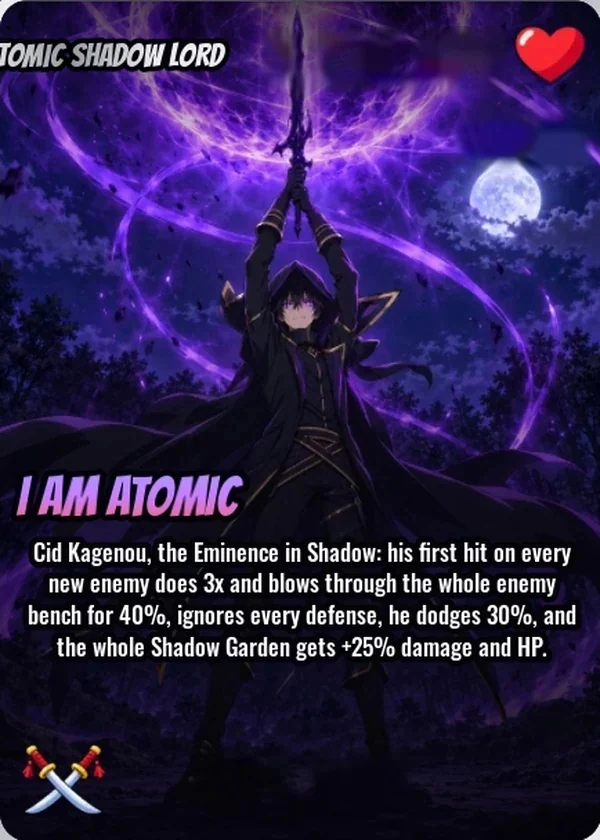
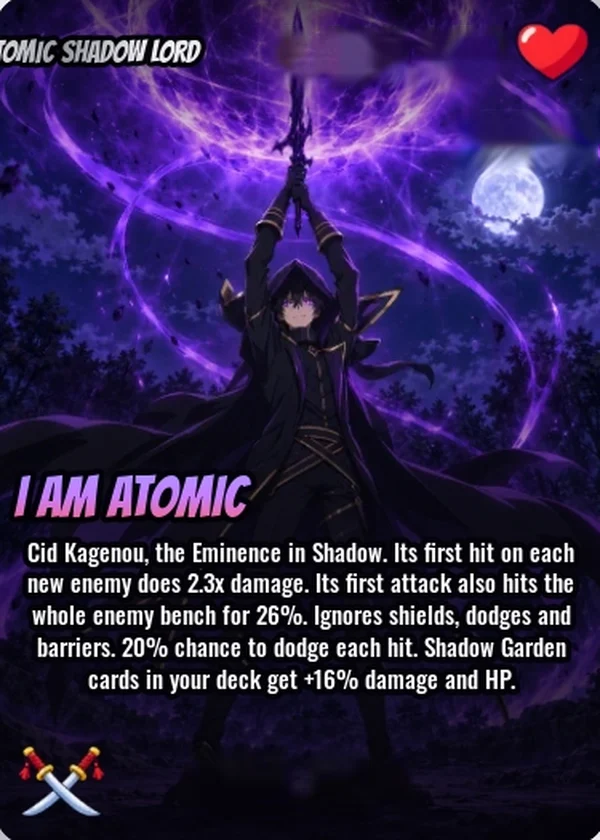
W1: update 4 cards after game update, add obtain field
Claude-Session: https://claude.ai/code/session_01PKgbaASwr48u7ViNCJSrt4

diff --git a/PROGRESS.md b/PROGRESS.md
@@ -40,7 +40,7 @@
 - สีเกรดจริง: แคปรูปมา → Claude Code **Sonnet 5.5 / low** แก้แค่ `--g-*` ใน `css/tokens.css`
 
 **ลำดับงาน (เจ้าของตกลงแล้ว 2026-10-25 · สเปกครบใน §13 · ทำทีละข้อตามลำดับ):** W1 → W2 → W3 → W4 → W5 → W6 → W7 → Roll
-1. **W1** อัปเดตการ์ด 4 ใบ + เพิ่ม White Hawk Godhand + ช่อง `obtain` (แนบรูป) → **Sonnet 5.5 / medium**: `repo Card_Ascension: อ่าน PROGRESS.md (กฎทำงาน + ▶ + §3.5.1 + §5 + §7 A + §13 W1) แล้วทำ W1 กับรูปที่แนบ`
+1. **W1** ✅ การ์ด 4 ใบ + `obtain` เสร็จแล้ว · **เหลือเพิ่ม White Hawk Godhand (Berserk)** — รอเจ้าของแนบรูปการ์ด + หน้า Index (ทำเป็นงาน A ปกติ ไม่ต้องทำ 4 ใบซ้ำ) → **Sonnet 5.5 / medium**: `repo Card_Ascension: อ่าน PROGRESS.md (กฎทำงาน + ▶ + §3.5.1 + §5 + §7 A + §13 W1) แล้วทำ W1 กับรูปที่แนบ`
 2. **W2** วิเคราะห์ใหม่ทุกใบ → **Opus 5.5 / high**: `repo Card_Ascension: อ่าน PROGRESS.md (กฎทำงาน + ▶ + §5 + §7 B + §8 + §10.5 + §13 W2) แล้วทำ W2`
 3. **W3** จอคอมยืดตามจอ → **Sonnet 5.5 / medium**: `repo Card_Ascension: อ่าน PROGRESS.md (กฎทำงาน + ▶ + §3 + §3.3 + §4.1 + §13 W3) แล้วทำ W3`
 4. **W4** ความเร็วหน้า Cards 60 ใบ → **Opus 5.5 / high**: `repo Card_Ascension: อ่าน PROGRESS.md (กฎทำงาน + ▶ + §3.3 + §4.1 + §11.3 + §13 W4) แล้วทำ W4`
@@ -313,6 +313,7 @@ const RARITY_MULTIPLIERS = {
   "image": "images/cards/bald-cadet.webp",
   "base": { "atk": 382, "hp": 2546, "def": 0, "status": 0, "odds": 59 },   // ค่าระดับ Normal · def = Defense, status = Status Damage (ใส่เมื่อรู้ค่า ไม่ใส่/0 = หน้า Grade แสดงแค่ % โบนัส)
   "exact": { "Divine": { "atk": 10121 } },                // ค่าจริงจากเกม (ถ้ามี)
+  "obtain": "Rolls anywhere",                              // วิธีได้มา (อ่านจากหน้า Index ในเกม) · เว็บยังไม่แสดง
   "passive": { "name": "ODM Gear", "desc": "15% dodge" },
   "skill":   { "name": "", "desc": "" },
   "scores":  { "atk": 0, "hp": 0, "passive": 0, "skill": 0, "matchup": 0, "team": 0, "overall": 0 },
@@ -366,7 +367,7 @@ const RARITY_MULTIPLIERS = {
 ทำเสร็จให้อัปเดต PROGRESS.md และ HISTORY.md และบอกว่าต้องอัปไฟล์ไหนไปโฟลเดอร์ไหน ทำเป็นไฟล์ zip
 ```
 1. ตัดรูปด้วย Python: หาขอบการ์ด, ตัดพื้นหลังและหน้าจอเกมออก, ปรับให้เป็น 600×840 แล้วบันทึกเป็น `.webp` ชื่อตาม id ใน `images/cards/` · **และทำรูปเล็ก 300×420 `.webp` ชื่อเดียวกันใน `images/cards/thumb/` ทุกครั้ง** (ขั้น 9.5: การ์ดเล็กโหลดรูปนี้ ไม่มี = โหลดรูปใหญ่แทน ช้าและเปลือง RAM) · บอกเจ้าของให้อัปทั้ง 2 โฟลเดอร์
-2. อ่านทุกอย่างที่เห็นในรูป: ชื่อ, ATK, HP, Passive, Skill, ระดับ, โอกาส · ถ้ารูปเป็นระดับอื่นที่ไม่ใช่ Normal ให้หารด้วยตัวคูณเพื่อหาค่า Normal แล้วเก็บค่าจริงไว้ใน `exact`
+2. อ่านทุกอย่างที่เห็นในรูป: ชื่อ, ATK, HP, Passive, Skill, ระดับ, โอกาส, **`obtain` (วิธีได้มา เช่น "Rolls anywhere" · ต้องจดทุกใบทุกครั้ง · แคปหน้า Index ในเกมมาด้วย)** · ถ้ารูปเป็นระดับอื่นที่ไม่ใช่ Normal ให้หารด้วยตัวคูณเพื่อหาค่า Normal แล้วเก็บค่าจริงไว้ใน `exact`
 3. อ่านไม่ชัดตรงไหนให้ถาม ห้ามเดา
 4. ใส่ข้อมูลลง `cards.json` (ยังไม่ต้องให้คะแนน: ตั้ง `scores.overall` เป็น `0` และ `tier` เป็น `""` เว็บจะแสดงเป็น Unranked ให้เอง) แล้วบอกว่าต้องอัปไฟล์ไหน
 
@@ -464,7 +465,7 @@ const RARITY_MULTIPLIERS = {
 ## 13. งานรอทำ (เจ้าของตกลงแล้ว 2026-10-25)
 ทำตามลำดับ **W1 → W2 → W3 → W4 → W5 → W6 → W7 → Roll (§12)** · 1 งาน = 1 แชท (กฎ 7) · prompt + โมเดลอยู่ใน ▶ · ทุกงานที่แตะหน้าเว็บต้องผ่าน §4.1 + เปลี่ยน `?v=` ทุกบรรทัด (กฎ 9)
 
-### W1 อัปเดตการ์ดหลังเกมอัปเดต (งาน A · §7 A)
+### W1 อัปเดตการ์ดหลังเกมอัปเดต (งาน A · §7 A) — ✅ การ์ด 4 ใบเดิมเสร็จ 2026-10-25 · ⏳ เหลือ White Hawk Godhand (รอรูป)
 - เกมเปลี่ยน **ATK / HP / ข้อความสกิล** (โอกาสเท่าเดิม) → อัปเดตการ์ด 4 ใบเดิม (`dragon-emperor-monarch`, `moon-eye-ghost`, `atomic-shadow-lord`, `beast-emperor`): ข้อมูลใหม่ + **รูปใหม่ที่ลบตัวเลขตาม §3.5** (HP / ป้าย 1 IN X / ATK / ×N / ★ · ทั้ง `images/cards/` และ `thumb/`)
 - เพิ่มการ์ดใหม่ **White Hawk Godhand** (Berserk)
 - เพิ่มช่อง **`obtain`** (วิธีได้มา เช่น `"Rolls anywhere"` อ่านจากหน้า Index ในเกม) **ทุกใบ** · เพิ่มใน §7 A ว่า**ต้องจด `obtain` ทุกครั้ง** (+ §5.2 โครงไฟล์)

diff --git a/HISTORY.md b/HISTORY.md
@@ -817,3 +817,10 @@
   - **ไฟล์:** ใหม่ `data/traits.json`, `js/traits.js`, `css/traits.css` · แก้ `index.html` (ปุ่มเมนู, section, sprite, `?v=17` ทุกบรรทัด), `css/tokens.css`, `css/base.css`, `css/detail.css`, `js/app.js`, `js/teamscore.js`, `js/deck.js`, `js/detail.js`, `js/grade.js`, `data/cards.json`, `PROGRESS.md`, `HISTORY.md`
 - 2026-10-25: **จดสเปกแท็บ Roll** ลง PROGRESS §12 (รอเจ้าของสั่ง · ยังไม่ได้ทำโค้ด) · ▶ ข้อ 5 ชี้ไป §12 · เพิ่มแถวในตาราง 📑 · **ไฟล์:** `PROGRESS.md`, `HISTORY.md`
 - 2026-10-25: **จดงานรอทำ W1–W7** (เจ้าของตกลงแล้ว) ลง PROGRESS **§13 งานรอทำ (เจ้าของตกลงแล้ว 2026-10-25)** · ยังไม่ได้แก้โค้ด · W1 อัปเดตการ์ดหลังเกมอัปเดต + White Hawk Godhand + ช่อง `obtain` · W2 วิเคราะห์ใหม่ · W3 จอคอมยืดตามจอ (เพดาน ~1600px) · W4 ความเร็วหน้า Cards 60 ใบ (~40 → ≥ 55 fps) · W5 หน้า Traits ใหม่แบบ Trait Shop + ไอคอนใหม่ · W6 หน้าดูการ์ด (ป้าย 4 มุม, ปุ่ม, แผง Details 4 แท็บ, เปลี่ยนระดับ, สวิตช์ Low/High) · W7 ฉากหลัง 6 ชั้น (รอรูปจากเจ้าของ) · ▶ เพิ่ม "ลำดับงาน" W1 → … → W7 → Roll พร้อม prompt + โมเดล · Roll (▶ ข้อ 5) เปลี่ยนเป็น "ทำหลัง W7" · **ไฟล์:** `PROGRESS.md`, `HISTORY.md`
+- 2026-10-25: **W1 อัปเดตการ์ด 4 ใบหลังเกมอัปเดต + ช่อง `obtain`** (Claude Code · Sonnet 5.5 · ยังไม่ได้แก้โค้ดเว็บ จึงไม่เปลี่ยน `?v=` = ยัง `17`)
+  - **ข้อมูลใหม่ (อ่านจากหน้า Index ในเกม · ระดับ Normal · โอกาสเท่าเดิม):** DEM ATK 1,333,153 / HP 8,887,688 (เดิม 763,942 / 5,092,944) · MEG 1,079,693 / 7,197,952 (เดิม 438,047 / 2,920,312) · ASL 969,893 / 6,465,954 (เดิม 484,946 / 3,232,976) · BE 937,943 / 6,252,952 (เดิม 862,040 / 5,746,932) · passive แก้ตามข้อความใหม่ (DEM: ลดดาเมจ 6.4% · เผา 2 ตา · ตีเบนช์ 20% · ฆ่าทันที < 5% HP · ตัดแถว "takes 30% less" ออก · MEG: ลด 5.5% · ทุกตีที่ 2 ตีใบหลัง 35% · บล็อก 3 ครั้ง · ฟื้น 14% HP · ASL: ตีแรก 2.3x · ตีเบนช์ 26% · หลบ 20% · Shadow Garden +16% · BE: ตีที่ 3 = 2.5x · **เกมเอา "+6% damage per hit" ออก**) · ทุกใบ `obtain` = `"Rolls anywhere"` · `updated` = 2026-10-25
+  - **ยังไม่ได้ทำ:** คะแนน/Tier/`tags`/`beats`/`modes`/`bestTrait`/ทีม ยังเป็นค่าเดิมจากตัวเลขเก่า (รอ W2) · `tierNote`/`strengths`/`notes` อาจพูดถึงความสามารถที่เกมเอาออก (เช่น BE โตตามจำนวนครั้งที่โดนตี) W2 ต้องเขียนใหม่ · **White Hawk Godhand ยังไม่ได้เพิ่ม** (เจ้าของไม่ได้แนบรูป)
+  - **รูป:** ตัดกรอบขาวของการ์ดออก (x 691–1066, y 262–785 ในภาพ 2400×1080 ทั้ง 4 รูปตำแหน่งเดียวกัน) → 600×840 → ลบ HP / ป้าย 1 IN X / ATK / ×N ด้วย `cv2.xphoto.inpaint` FSR_FAST วิธีเดียวกับขั้น 13 (mask HP = พิกเซลเขียว x 250–513 · ATK = พิกเซลแดง y ≥ 740 x 170–430 · ป้ายโอกาส = กล่อง x 451–598 y 110–172 · ×N = พิกเซลสว่างกล่อง x 535–595 y 755–820 · ขยาย 5–7px) · webp q86 + thumb 300×420 q82 · หัวใจเก็บไว้ · จุดเลอะเล็กน้อย: ฟ้าใต้ HP ของ ASL (เบลอเป็นก้อนเล็ก) · ชื่อการ์ดมุมซ้ายบนถูกตัดตามกรอบเหมือนรูปเดิม
+  - **`obtain`:** PROGRESS §5.2 (โครงไฟล์) + §7 A ข้อ 2 (ต้องจดทุกครั้ง) · เว็บยังไม่แสดงช่องนี้ (W6 จะเอาไปใช้ใต้ Tier)
+  - **ผลทดสอบ:** `data/cards.json` โหลดเป็น JSON ได้ · diff เฉพาะ 4 ใบ · ไม่ได้เปิดเว็บทดสอบ (ไม่แตะโค้ด)
+  - **ไฟล์ที่ต้องอัป:** `data/cards.json` → `data/` · `images/cards/*.webp` 4 ไฟล์ → `images/cards/` · `images/cards/thumb/*.webp` 4 ไฟล์ → `images/cards/thumb/` · `PROGRESS.md`, `HISTORY.md` → root
